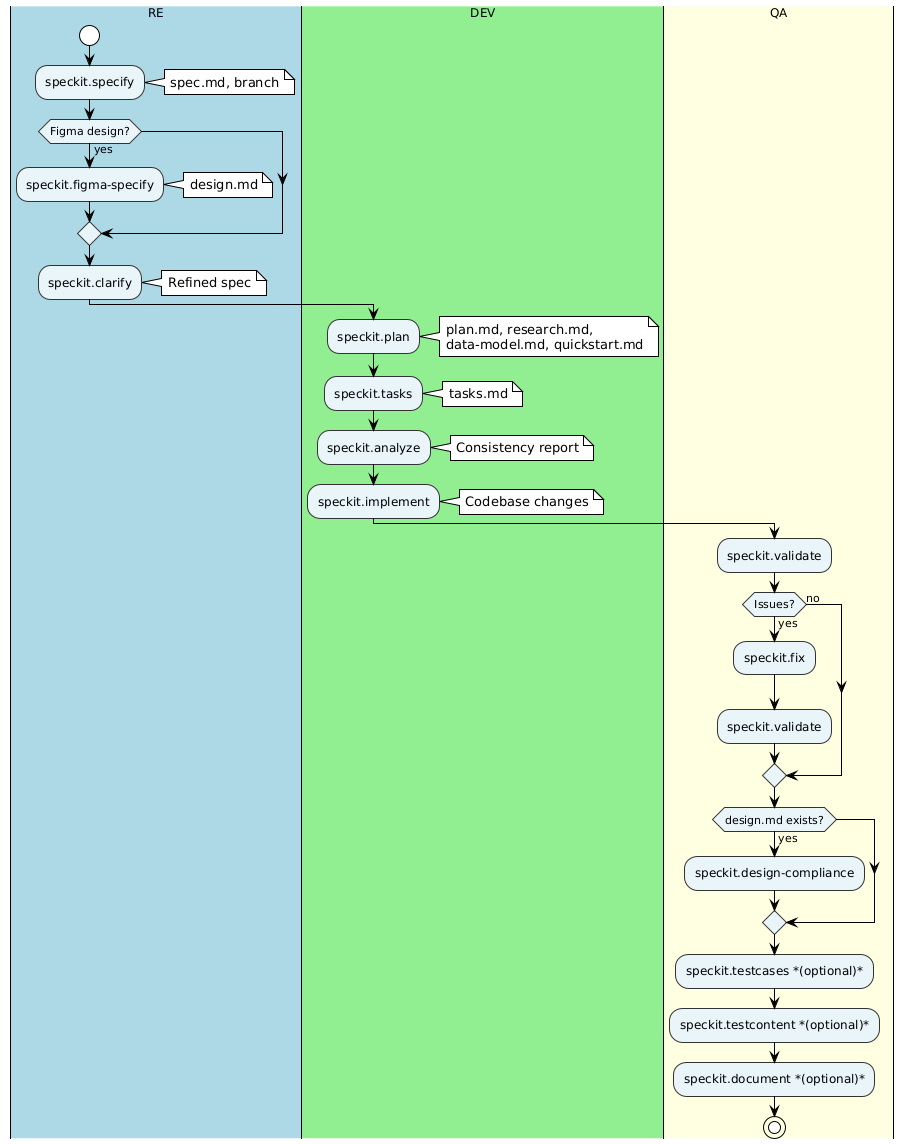
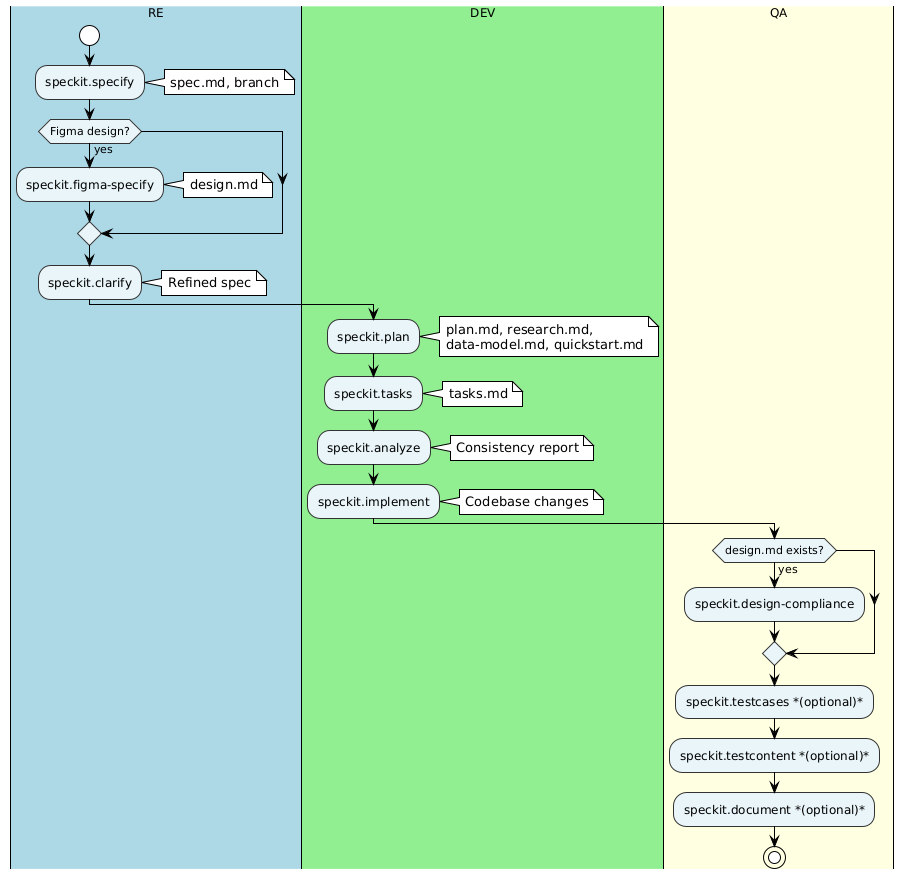
Remove speckit-fix skill and update speckit-implement and speckit-validate documentation to reflect changes in workflow and validation steps. Adjust workflow diagrams to remove references to speckit.validate and speckit.fix.

diff --git a/.claude/skills/speckit-validate/SKILL.md b/.claude/skills/speckit-validate/SKILL.md
@@ -1,62 +1,37 @@
 ---
 name: speckit-validate
-description: Validate generated AEM component code after speckit-implement. Explicit invocation only — never load from context or topic. Use only when the user types the exact command "speckit-validate".
+description: Validate implementation by running CDD Phase 3 steps 3.1 and 3.3, plus EDS skills compliance check. Explicit invocation only — never load from context or topic. Use only when the user types the exact command "speckit-validate".
 disable-model-invocation: true
 ---
 
 # Speckit Validate Workflow
 
-Validates generated HTL, dialog XML, SCSS, and JS against AEM rules and runs linters.
+Executes **Phase 3, steps 3.1 and 3.3** from the `content-driven-development` skill. Run after `/speckit-implement`.
 
-## Scope Resolution
+## Setup
 
-1. Run: `.specify/scripts/bash/check-prerequisites.sh --json --require-tasks --include-tasks` from repo root
-2. Determine scope:
-   - User provided file paths → validate those files only
-   - User provided component name → resolve to files under `digitalxn-aem-base/`
-   - Neither → parse `tasks.md` for component name, glob for matching files
+Run: `.specify/scripts/bash/check-prerequisites.sh --json --require-tasks` from repo root. Parse `FEATURE_DIR`. Identify test content URL(s) from tasks.md, plan.md, or spec.
 
-## Files to Validate
+## Steps
 
-- **HTL**: `**/*.html` under `digitalxn-aem-base/digitalxn-aem-base-apps/.../components/`
-- **Dialogs**: `**/_cq_dialog/**/*.content.xml`
-- **Frontend (SCSS/JS)**: `digitalxn-aem-base/digitalxn-aem-base-clientlibs-apps/frontend/` (lint runs on entire directory)
-
-## Rule-Based Reviews
-
-- **HTL files**: Apply `aem-htl-component` skill rules — check all rules, report violations with rule reference and fix
-- **Dialog files**: Apply `aem-dialog` skill rules — Coral 3 compliance, typed parameters, tab structure
-
-## Frontend Linters
-
-Run from `digitalxn-aem-base/digitalxn-aem-base-clientlibs-apps/frontend/`:
-```bash
-npm run lint:css  # Stylelint on SCSS
-npm run lint:js   # ESLint on JS
-```
-
-Report errors only; filter warnings.
-
-## VALIDATE-OUTPUT Format
-
-When issues exist, emit this compact block for piping to `speckit-fix`:
-
-```
----VALIDATE-OUTPUT---
-SCOPE:<component-name>
-HTL:<count>
-DLG:<count>
-LINT:<count>
----
-file:PATH|rule:ID|line:L|col:C|fix:FIX
----END---
-```
-
-Rule IDs: `HTL-N` (HTL section N), `DLG-N` (dialog section N), `ESL` (ESLint), `STL` (Stylelint).
+1. **Test with Real Content** — Read and follow the content-driven-development skill, Phase 3, Step 3.1.
+2. **Comprehensive Testing** — Read and follow the content-driven-development skill, Phase 3, Step 3.3.
+3. **Skills Compliance** — Second-round check: review the implementation against each applicable skill. Read each skill and verify the implementation satisfies its rules. Flag and fix any gaps. Skills to check:
+   * eds-wcag
+   * eds-styles
+   * eds-naming
+   * eds-documentation
+   * eds-analytics
+   * code-review
+   * eds-analytics: applies only to interactive blocks
+   * eds-documentation: applies when block/docs exist.
 
 ## Report
 
-Output: table of HTL files (PASS/FAIL with violation count), table of dialog files (PASS/FAIL with violation count), lint results (CSS and JS pass/fail with error summary), overall status, and readiness for next phase:
+Output: validation result (PASS/FAIL), readiness for next phase, and **recommended next step:** `/speckit-design-compliance` (when design.md exists), or `/speckit-testcontent`, `/speckit-document`.
 
-- **If FAIL** (any HTL, dialog, or lint issues): `/speckit-fix` (emit the compact VALIDATE-OUTPUT block so the user can paste it)
-- **If PASS**: `/speckit-design-compliance` (recommended only if `design.md` exists). Optionally `/speckit-testcases` or `/speckit-document`.
+**If any step fails:** Output failures as a table with columns `Failure` and `Recommended Action`:
+
+| Failure | Recommended Action |
+|---------|-------------------|
+| *[description of what failed]* | *[concrete action to fix]* |

diff --git a/.specify/docs/speckit-workflow-diagram.md b/.specify/docs/speckit-workflow-diagram.md
@@ -56,13 +56,11 @@ UML Class Diagram of implementation task categories and their dependencies.
 | DEV 1 | `/speckit.plan` | plan.md, research.md, data-model.md, quickstart.md | spec.md | tasks |
 | DEV 2 | `/speckit.tasks` | tasks.md | plan.md | analyze or implement |
 | DEV 3 | `/speckit.analyze` *(optional)* | Consistency report (read-only) | tasks.md | implement |
-| DEV 4 | `/speckit.implement` | Codebase changes | tasks.md, plan.md | validate |
-| QA 1 | `/speckit.validate` | Validation report, VALIDATE-OUTPUT block (if issues) | Implementation complete | fix or design-compliance |
-| QA 2 | `/speckit.fix` | Auto-fixes | VALIDATE-OUTPUT from validate | validate (re-run) |
-| QA 3 | `/speckit.design-compliance` *(recommended if design.md)* | design-expectations.json, compliance result | design.md | testcontent or document |
-| QA 4 | `/speckit.testcases` *(optional)* | testcases.csv | spec.md | testcontent |
-| QA 5 | `/speckit.testcontent` *(optional)* | Reference content in digitalxn-aem-nc-sites-reference-content | testcases.csv or spec | document |
-| QA 6 | `/speckit.document` *(optional)* | Authoring guide in .specify/memory/components/authoring-guides/ | Implementation complete | PR |
+| DEV 4 | `/speckit.implement` | Codebase changes | tasks.md, plan.md | design-compliance or testcontent |
+| QA 1 | `/speckit.design-compliance` *(recommended if design.md)* | design-expectations.json, compliance result | design.md | testcontent or document |
+| QA 2 | `/speckit.testcases` *(optional)* | testcases.csv | spec.md | testcontent |
+| QA 3 | `/speckit.testcontent` *(optional)* | Reference content in digitalxn-aem-nc-sites-reference-content | testcases.csv or spec | document |
+| QA 4 | `/speckit.document` *(optional)* | Authoring guide in .specify/memory/components/authoring-guides/ | Implementation complete | PR |
 
 **RE order when Figma exists:** specify → figma-specify → clarify → plan. When no Figma: specify → clarify → plan.
 
@@ -74,7 +72,7 @@ UML Class Diagram of implementation task categories and their dependencies.
 
 | Command | Setup Script |
 |---------|--------------|
-| clarify, plan, tasks, implement, validate, fix, design-compliance, testcases, testcontent, document | `check-prerequisites.sh --json [--require-tasks] [--include-tasks]` |
+| clarify, plan, tasks, implement, design-compliance, testcases, testcontent, document | `check-prerequisites.sh --json [--require-tasks] [--include-tasks]` |
 | specify | `create-new-feature.sh --json --number <n> --short-name "<name>" "<description>"` |
 | plan | `setup-plan.sh --json` |
 
